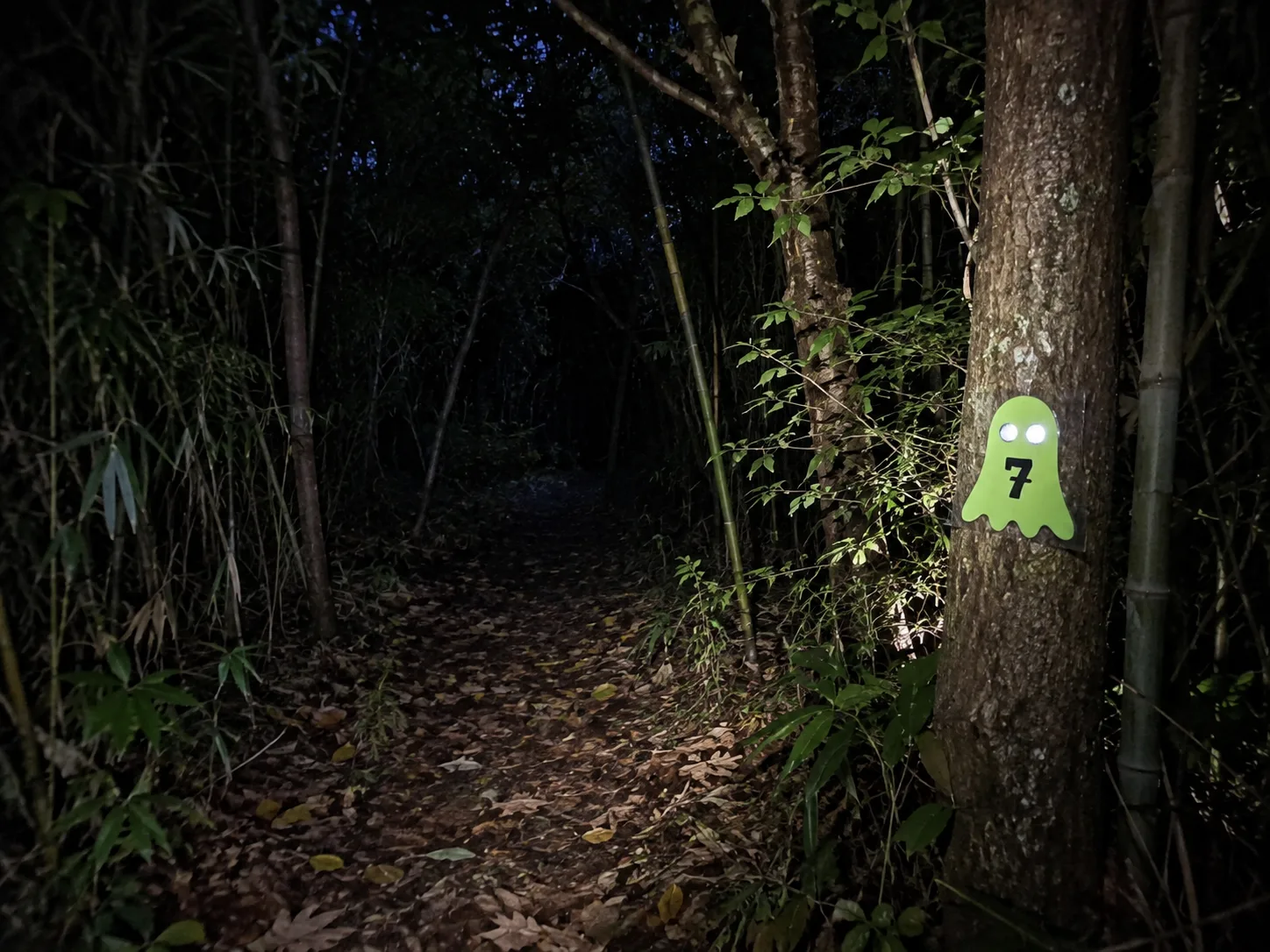
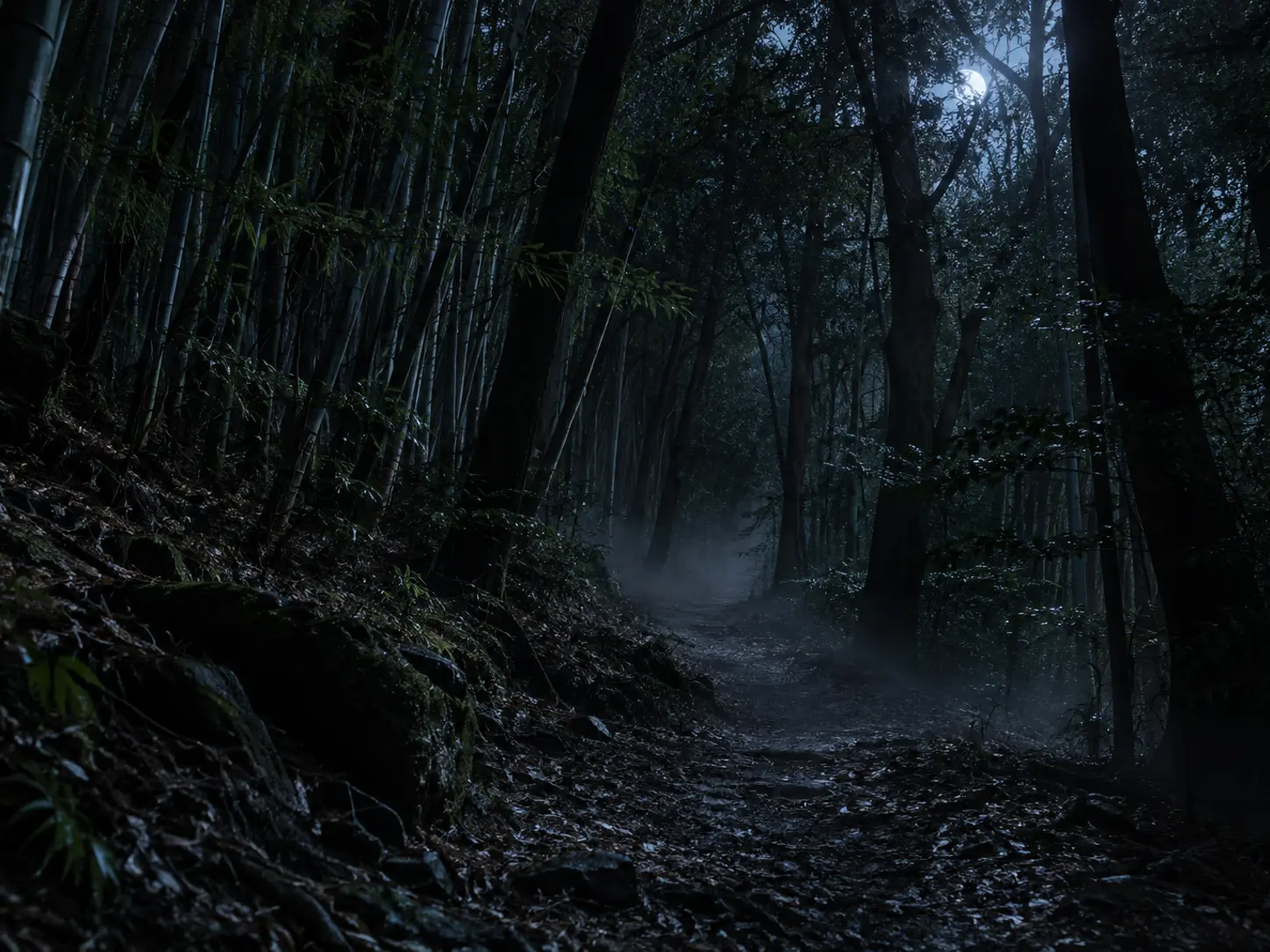
push

diff --git a/event.html b/event.html
@@ -5,6 +5,12 @@
   <meta name="viewport" content="width=device-width, initial-scale=1, viewport-fit=cover">
   <meta name="description" content="The Halloween Event 2026 in Tomisato, Chiba — Candy Forest, Story Time and the Zombie Scavenger Hunt. Reservation required.">
   <meta name="theme-color" content="#ff7a1a">
+  <meta property="og:title" content="ハロウィンイベント 2026 | The Halloween Event">
+  <meta property="og:description" content="10月31日（土）富里・キャンディの森、ストーリータイム、ゾンビ・スカベンジャーハント。要予約。">
+  <meta property="og:image" content="https://booha-adventure-studios.github.io/booha-world/assets/events/info/og-share.jpg">
+  <meta property="og:image:width" content="1200">
+  <meta property="og:image:height" content="630">
+  <meta name="twitter:card" content="summary_large_image">
   <title>The Halloween Event 2026 · ハロウィンイベント</title>
   <link rel="icon" type="image/webp" href="assets/img/booha_ghost.webp">
   <link rel="preconnect" href="https://fonts.googleapis.com">
@@ -31,10 +37,14 @@
 
     <section class="panel tab-panel is-active info-panel" id="panel-info" data-panel="info">
       <section class="info-hero info-sticker" aria-labelledby="info-title">
+        <picture class="info-hero-photo">
+          <source media="(max-width: 600px)" srcset="assets/events/info/hero-forest-mobile.webp">
+          <img src="assets/events/info/hero-forest-desktop.webp" width="2400" height="1000" fetchpriority="high" alt="夕方の大きな森の小道。竹と木々が奥へ続く自然な森">
+        </picture>
         <p class="info-date-pill"><span class="jp-main">10月31日（土）</span><span class="en-sub">Saturday, October 31, 2026</span></p>
         <h1 id="info-title"><span class="jp-main">ハロウィンイベント</span></h1>
         <p class="info-hero-en">THE HALLOWEEN EVENT 2026</p>
-        <p class="info-lede"><span class="jp-main">昼はキャンディの森とストーリータイム、夜はゾンビ・スカベンジャーハント！</span><span class="en-sub">Candy Forest and Story Time by day, the Zombie Scavenger Hunt at night!</span></p>
+        <p class="info-lede"><span class="jp-main"><span>昼はキャンディの森とストーリータイム、</span> <span>夜はゾンビ・スカベンジャーハント！</span></span><span class="en-sub"><span>Choose Candy Forest or Story Time by day,</span> <span>or join the Zombie Scavenger Hunt at night!</span></span></p>
         <p class="info-countdown-label"><span id="info-countdown-label-jp" class="jp-main">キャンディの森 スタートまで</span><span id="info-countdown-label-en" class="en-sub">Candy Forest opens in</span></p>
         <div class="countdown" id="info-countdown" aria-live="polite">—</div>
         <div class="info-actions">
@@ -46,32 +56,32 @@
       <section class="info-section info-reservation info-sticker" id="reservation" aria-labelledby="reservation-title">
         <p class="eyebrow"><span class="jp-main">まずは予約</span><span class="en-sub">Start here</span></p>
         <h2 id="reservation-title"><span class="jp-main">参加には予約が必要です</span><span class="en-sub">Reservation required</span></h2>
-        <p class="info-copy"><span class="jp-main">ブライアン英会話教室にメールでご予約ください。</span><span class="en-sub">Please reserve by emailing Bryan's English School.</span></p>
+        <p class="info-copy"><span class="jp-main">ブライアン英会話教室にメールでご予約ください。3つのイベントは、参加したいものだけ選べます。</span><span class="en-sub">Please reserve by emailing Bryan's English School. The three activities are independent—choose one, two, or all three.</span></p>
         <a id="reservation-link" class="primary-button info-button" href="mailto:bryans.english@gmail.com"><span class="jp-main">メールで予約する</span><span class="en-sub">Reserve by email</span></a>
         <p class="copyable-contact" id="reservation-email">bryans.english@gmail.com</p>
       </section>
 
       <section class="info-notices" aria-label="Must-know information">
-        <article class="info-notice notice-phone"><span class="notice-icon" aria-hidden="true">📱</span><h2><span class="jp-main">1グループに1台、電波の入るスマホが必要です</span><span class="en-sub">One phone with mobile data per family or team</span></h2><p><span class="jp-main">会場にWi-Fiはありません。キャンディの森とゾンビ・スカベンジャーハントで使います。充電してきてください。</span><span class="en-sub">There is no Wi-Fi. You'll need it for both hunts — come fully charged.</span></p></article>
-        <article class="info-notice notice-costume"><span class="notice-icon" aria-hidden="true">👻</span><h2><span class="jp-main">子ども（小学生〜高校生）は仮装必須</span><span class="en-sub">Costumes are required for children</span></h2><p><span class="jp-main">保護者の仮装は自由です。</span><span class="en-sub">Children from elementary to high school must wear costumes. Optional for parents.</span></p></article>
-        <article class="info-notice notice-toilet"><span class="notice-icon" aria-hidden="true">🚻</span><h2><span class="jp-main">森の中にトイレはありません</span><span class="en-sub">There are no toilets in the forest</span></h2><p><span class="jp-main">来場前におすませください。</span><span class="en-sub">Please go before you arrive.</span></p></article>
+        <article class="info-notice notice-phone"><span class="notice-tag"><span class="jp-main">スマホ</span><span class="en-sub">PHONE</span></span><h2><span class="jp-main">1グループに1台、電波の入るスマホが必要です</span><span class="en-sub">One phone with mobile data per family or team</span></h2><p><span class="jp-main">会場にWi-Fiはありません。キャンディの森とゾンビ・スカベンジャーハントで使います。充電してきてください。</span><span class="en-sub">There is no Wi-Fi. You'll need it for both hunts — come fully charged.</span></p></article>
+        <article class="info-notice notice-costume"><span class="notice-tag"><span class="jp-main">仮装</span><span class="en-sub">COSTUMES</span></span><h2><span class="jp-main">子ども（小学生〜高校生）は仮装必須</span><span class="en-sub">Costumes are required for children</span></h2><p><span class="jp-main">保護者の仮装は自由です。</span><span class="en-sub">Children from elementary to high school must wear costumes. Optional for parents.</span></p></article>
+        <article class="info-notice notice-toilet"><span class="notice-tag"><span class="jp-main">トイレ</span><span class="en-sub">TOILETS</span></span><h2><span class="jp-main">森の中にトイレはありません</span><span class="en-sub">There are no toilets in the forest</span></h2><p><span class="jp-main">来場前におすませください。</span><span class="en-sub">Please go before you arrive.</span></p></article>
       </section>
 
       <section class="info-section info-events" aria-labelledby="events-title">
-        <div class="info-section-heading"><p class="eyebrow"><span class="jp-main">1日の予定</span><span class="en-sub">The day at a glance</span></p><h2 id="events-title"><span class="jp-main">昼から夜まで楽しもう</span><span class="en-sub">Three parts of the Halloween Event</span></h2></div>
+        <div class="info-section-heading"><p class="eyebrow"><span class="jp-main">1日の予定</span><span class="en-sub">The day at a glance</span></p><h2 id="events-title"><span class="jp-main">昼から夜まで楽しもう</span><span class="en-sub">Three parts of the Halloween Event</span></h2><p class="info-copy event-choice-note"><span class="jp-main">3つのイベントは別々に参加できます。好きなものを選んでください。</span><span class="en-sub">Each activity is separate — choose one, two, or all three.</span></p></div>
         <div class="event-cards">
-          <article class="event-card event-card-candy"><time>10:00〜16:00ごろ</time><h3><span class="jp-main">キャンディの森</span><span class="en-sub">Candy Forest</span></h3><p><span class="jp-main">森にかくれた10ひきのブーハーゴーストをさがそう。11:00までにスタート。</span><span class="en-sub">Find ten hidden Booha Ghosts in the forest. Start by 11:00.</span></p><strong id="info-candy-card-price">キャンディバッグ ¥1,000</strong><button class="info-card-button" type="button" data-go-tab="candy"><span class="jp-main">詳しく見る</span><span class="en-sub">View details</span></button></article>
-          <article class="event-card event-card-story"><time>お昼ごろ<span class="en-sub">Around lunchtime</span></time><h3><span class="jp-main">ストーリータイム</span><span class="en-sub">Story Time</span></h3><p><span class="jp-main">お昼ごはんのあとにお話の時間。</span><span class="en-sub">A story session around lunchtime.</span></p></article>
-          <article class="event-card event-card-zombie"><time>18:00</time><h3><span class="jp-main">ゾンビ・スカベンジャーハント</span><span class="en-sub">Zombie Scavenger Hunt</span></h3><p><span class="jp-main">暗い森でゴーストをさがせ。サイレンが鳴ったらかくれろ！</span><span class="en-sub">Find the ghosts in the dark forest. When the siren sounds — hide!</span></p><strong id="info-zombie-card-price">グッズバッグ ¥1,000</strong><button class="info-card-button" type="button" data-go-tab="zombie"><span class="jp-main">詳しく見る</span><span class="en-sub">View details</span></button></article>
+          <article class="event-card event-card-candy"><img class="event-card-photo" src="assets/events/info/card-candy-forest.webp" width="1200" height="800" loading="lazy" alt="昼の森の小道。木の陰に小さなゴーストがかくれている森"><time>10:00〜16:00<small>ごろ</small></time><h3><span class="jp-main">キャンディの森</span><span class="en-sub">Candy Forest</span></h3><p><span class="jp-main">森にかくれた10ひきのブーハーゴーストをさがそう。11:00までにスタート。</span><span class="en-sub">Find ten hidden Booha Ghosts in the forest. Start by 11:00.</span></p><strong id="info-candy-card-price">キャンディバッグ ¥1,000</strong><button class="info-card-button" type="button" data-go-tab="candy"><span class="jp-main">詳しく見る</span><span class="en-sub">View details</span></button></article>
+          <article class="event-card event-card-story"><img class="event-card-photo" src="assets/events/info/card-story-time.webp" width="1200" height="800" loading="lazy" alt="森の小道。小さなハロウィンキャラクターがいる森"><time>お昼ごろ<span class="en-sub">Around lunchtime</span></time><h3><span class="jp-main">ストーリータイム</span><span class="en-sub">Story Time</span></h3><p><span class="jp-main">お昼ごはんのあとにお話の時間。</span><span class="en-sub">A story session around lunchtime.</span></p></article>
+          <article class="event-card event-card-zombie"><img class="event-card-photo" src="assets/events/info/card-zombie-hunt.webp" width="1200" height="800" loading="lazy" alt="霧の夜の森の小道。うす紫のライトの光"><time>18:00</time><h3><span class="jp-main">ゾンビ・スカベンジャーハント</span><span class="en-sub">Zombie Scavenger Hunt</span></h3><p><span class="jp-main">暗い森でゴーストをさがせ。サイレンが鳴ったらかくれろ！</span><span class="en-sub">Find the ghosts in the dark forest. When the siren sounds — hide!</span></p><strong id="info-zombie-card-price">グッズバッグ ¥1,000</strong><button class="info-card-button" type="button" data-go-tab="zombie"><span class="jp-main">詳しく見る</span><span class="en-sub">View details</span></button></article>
         </div>
       </section>
 
       <section class="info-section info-prices info-sticker" aria-labelledby="prices-title">
         <p class="eyebrow"><span class="jp-main">料金</span><span class="en-sub">Prices</span></p>
-        <h2 id="prices-title"><span class="jp-main">キャンディバッグ・グッズバッグ</span><span class="en-sub">Candy bags &amp; goodie bags</span></h2>
+        <h2 id="prices-title"><span class="jp-main">バッグ料金</span><span class="en-sub">Bag prices</span></h2>
         <div class="price-tiles">
-          <article class="price-tile price-candy"><span class="jp-main">キャンディの森 キャンディバッグ</span><span class="en-sub">Candy Forest candy bag</span><strong id="info-candy-price">¥1,000</strong></article>
-          <article class="price-tile price-zombie"><span class="jp-main">ゾンビ・スカベンジャーハント グッズバッグ</span><span class="en-sub">Zombie Scavenger Hunt goodie bag</span><strong id="info-zombie-price">¥1,000</strong></article>
+          <article class="price-tile price-candy"><span class="jp-main"><span>キャンディの森</span><span>キャンディバッグ</span></span><span class="en-sub">Candy Forest candy bag</span><strong id="info-candy-price">¥1,000</strong></article>
+          <article class="price-tile price-zombie"><span class="jp-main"><span>ゾンビ・スカベンジャーハント</span><span>グッズバッグ</span></span><span class="en-sub">Zombie Scavenger Hunt goodie bag</span><strong id="info-zombie-price">¥1,000</strong></article>
         </div>
         <p class="price-note"><span class="jp-main">お子さま1人あたりの料金です。両方に参加する場合は<span id="info-both-price">¥2,000</span>です。</span><span class="en-sub">Prices are per child. Joining both events is <span id="info-both-price-en">¥2,000</span>.</span></p>
         <p class="price-note"><span class="jp-main">保護者の方はバッグの購入は不要です。</span><span class="en-sub">Parents do not need to buy a bag.</span></p>
@@ -84,13 +94,13 @@
           <div class="timeline-stop"><time>10:00</time><p><span class="jp-main">キャンディの森スタート</span><span class="en-sub">Candy Forest starts</span></p></div>
           <div class="timeline-stop"><time>11:00</time><p><span class="jp-main">新しいスタートの締め切り</span><span class="en-sub">Last start</span></p></div>
           <div class="timeline-stop"><time>お昼ごろ</time><p><span class="jp-main">ストーリータイム</span><span class="en-sub">Story Time</span></p></div>
-          <div class="timeline-stop"><time>16:00ごろ</time><p><span class="jp-main">森の時間おわり</span><span class="en-sub">Daytime forest ends</span></p></div>
+          <div class="timeline-stop"><time>16:00<small>ごろ</small></time><p><span class="jp-main">森の時間おわり</span><span class="en-sub">Daytime forest ends</span></p></div>
           <div class="timeline-stop timeline-zombie"><time>18:00</time><p><span class="jp-main">ゾンビ・スカベンジャーハント</span><span class="en-sub">Zombie Scavenger Hunt</span></p></div>
         </div>
       </section>
 
       <section class="info-section info-checklist info-sticker" aria-labelledby="checklist-title">
-        <p class="eyebrow"><span class="jp-main">準備</span><span class="en-sub">Before you come</span></p><h2 id="checklist-title"><span class="jp-main">来る前にチェック</span><span class="en-sub">Before you come</span></h2>
+        <p class="eyebrow"><span class="jp-main">準備</span></p><h2 id="checklist-title"><span class="jp-main">来る前にチェック</span><span class="en-sub">Before you come</span></h2>
         <ul class="checklist">
           <li><span>✓</span><span><span class="jp-main">予約メールを送った</span><span class="en-sub">Reservation email sent</span></span></li>
           <li><span>✓</span><span><span class="jp-main">電波の入るスマホ（充電済み）</span><span class="en-sub">Phone with mobile data, fully charged</span></span></li>
@@ -103,18 +113,24 @@
         </ul>
       </section>
 
+      <section class="info-closing-banner info-sticker" aria-label="夕暮れの森">
+        <picture>
+          <source media="(max-width: 600px)" srcset="assets/events/info/banner-forest-dusk-mobile.webp">
+          <img src="assets/events/info/banner-forest-dusk-desktop.webp" width="2400" height="800" loading="lazy" alt="夕暮れの大きな森。自然な小道が木々の間へ続く">
+        </picture>
+      </section>
+
       <section class="info-section info-getting" id="getting-there" aria-labelledby="getting-title">
-        <div class="info-section-heading"><p class="eyebrow"><span class="jp-main">会場への行き方</span><span class="en-sub">How to get there</span></p><h2 id="getting-title"><span class="jp-main">駐車場から森の入口まで</span><span class="en-sub">From parking to the forest entrance</span></h2></div>
-        <div class="info-address-card info-sticker"><strong id="parking-address-jp"></strong><span id="parking-address-en" class="en-sub"></span><p><span class="jp-main">駐車場から森の入口まで徒歩約3分</span><span class="en-sub">About a three-minute walk from parking to the forest entrance.</span></p><a id="parking-map-link" class="primary-button info-button" href="#parking-map" target="_blank" rel="noopener"><span class="jp-main">Googleマップで見る</span><span class="en-sub">Open Google Maps</span></a></div>
+        <div class="info-section-heading"><p class="eyebrow"><span class="jp-main">会場への行き方</span></p><h2 id="getting-title"><span class="jp-main">駐車場から森の入口まで</span><span class="en-sub">From parking to the forest entrance</span></h2></div>
+        <div class="info-address-card info-sticker"><strong id="parking-company-jp"></strong><strong id="parking-street-jp"></strong><span id="parking-address-en" class="en-sub"></span><p><span class="jp-main">駐車場から森の入口まで徒歩約3分</span><span class="en-sub">About a three-minute walk from parking to the forest entrance.</span></p><a id="parking-map-link" class="primary-button info-button" href="https://www.google.com/maps/search/?api=1&amp;query=%E6%A0%AA%E5%BC%8F%E4%BC%9A%E7%A4%BE%E3%82%BF%E3%82%A4%E3%82%BB%E3%82%A4%E3%83%97%E3%83%AD%E3%83%80%E3%82%AF%E3%83%84%20%E5%8D%83%E8%91%89%E7%9C%8C%E5%AF%8C%E9%87%8C%E5%B8%82%E4%B8%83%E6%A0%84250" target="_blank" rel="noopener"><span class="jp-main">Googleマップで見る</span><span class="en-sub">Open Google Maps</span></a></div>
         <p class="parking-limit-note" id="parking-note"></p>
         <figure class="parking-map parking-route-map info-map-card"><img src="assets/events/location/parking-map.webp" alt="Japanese walking map from the parking area to Candy Forest"><figcaption><span class="jp-main">駐車場から森の入口までの道順</span><span class="en-sub">Walking route from parking to the forest entrance</span></figcaption></figure>
         <figure class="parking-map parking-aerial info-map-card" id="parking-map"><div class="parking-aerial-frame"><img src="assets/events/location/parking-aerial-marked.webp" alt="航空写真に前側駐車場と奥側駐車場、進入方向を示した案内図"></div><figcaption><span class="jp-main">航空写真：前側と奥側の駐車場</span><span class="en-sub">Aerial view: front lot and rear lot</span></figcaption></figure>
-        <figure class="parking-photo info-front-photo"><img src="assets/events/location/parking-front-photo.webp" alt="The front gravel parking area and blue-roofed building at the event location"><figcaption><span class="jp-main">会場前の駐車場です。奥側の駐車場もご利用ください。</span><span class="en-sub">This is the front lot. Please also use the rear lot.</span></figcaption></figure>
       </section>
 
       <section class="info-section info-contact info-sticker" aria-labelledby="contact-title">
         <p class="eyebrow"><span class="jp-main">お問い合わせ</span><span class="en-sub">Contact</span></p><h2 id="contact-title"><span class="jp-main">質問がありますか？</span><span class="en-sub">Questions?</span></h2><p><span class="jp-main">ブライアン英会話教室</span><span class="en-sub">Bryan's English School</span></p>
-        <div class="contact-actions"><a id="info-phone-link" class="secondary-button info-button" href="tel:0476769896">📞 電話する 0476-76-9896</a><a id="info-email-link" class="primary-button info-button" href="mailto:bryans.english@gmail.com">✉ メールする</a></div>
+        <div class="contact-actions"><a id="info-phone-link" class="secondary-button info-button" href="tel:0476769896"><span class="jp-main">電話する</span><span class="en-sub">Call 0476-76-9896</span></a><a id="info-email-link" class="primary-button info-button" href="mailto:bryans.english@gmail.com"><span class="jp-main">メールする</span><span class="en-sub">Email us</span></a></div>
       </section>
     </section>
 
@@ -135,7 +151,7 @@
       </div>
 
       <div class="hunt-shell">
-        <div class="hunt-art"><img src="assets/events/atmosphere/candy-forest-single-ghost.webp" alt="A small pink Booha Ghost attached to a tree beside a forest path"></div>
+        <div class="hunt-art"><img src="assets/events/atmosphere/candy-forest-single-ghost.webp" alt="A real forest path with a tiny hidden Booha Ghost partly behind a tree"></div>
         <div class="hunt-content">
           <div id="hunt-start" class="hunt-view">
             <p class="eyebrow"><span class="jp-main">かぞくのハント</span><span class="en-sub">Your family hunt</span></p>
@@ -187,7 +203,7 @@
           <p class="hero-lede"><span class="jp-main">ライムグリーンのゴースト15ひき。暗い森。サイレン。ゾンビ。QRコードはありません。</span><span class="en-sub">Fifteen lime-green ghosts. A dark forest. A siren. Zombies. No QR codes.</span></p>
           <p class="tba-pill"><span class="jp-main">夜の時間は未定</span><span class="en-sub">Nighttime schedule · TBA</span></p>
         </div>
-        <figure class="hero-image"><img src="assets/events/atmosphere/zombie-hunt-single-ghost.webp" alt="A small lime-green numbered Booha Ghost with reflective eyes on a tree at night"><figcaption>Example Ghost 7 — one of fifteen.</figcaption></figure>
+        <figure class="hero-image"><img src="assets/events/atmosphere/zombie-hunt-single-ghost.webp" alt="A dark, misty forest path at night"><figcaption>A real forest path after dark.</figcaption></figure>
       </div>
 
       <div class="night-rules">

diff --git a/event.css b/event.css
@@ -14,7 +14,7 @@
   --shadow: 0 24px 70px rgba(0, 0, 0, .32);
 }
 
-body[data-theme="candy"], body[data-theme="info"] {
+body[data-theme="candy"] {
   --bg: #250b3b;
   --surface: #351047;
   --surface-2: #55104f;
@@ -437,7 +437,6 @@ body[data-theme="info"] .info-hero { padding: 64px 32px; background: var(--pumpk
 body[data-theme="info"] .info-date-pill { display: inline-flex; flex-wrap: wrap; justify-content: center; gap: 4px 12px; margin: 0 auto 24px; padding: 9px 16px; border: 3px solid var(--ink); border-radius: 999px; background: #fff; font-weight: 700; }
 body[data-theme="info"] .info-date-pill .en-sub { display: inline; margin: 0; color: var(--ink); font-size: 14px; }
 body[data-theme="info"] .info-hero h1 { margin: 0; }
-body[data-theme="info"] .info-hero h1 > .jp-main { display: block; overflow: visible; color: var(--ink); font-family: 'Dela Gothic One', 'Noto Sans JP', sans-serif; font-size: min(calc((100vw - 32px) / 9.4), 120px); font-weight: 400; letter-spacing: 0; line-height: 1.1; white-space: nowrap; }
 body[data-theme="info"] .info-hero-en { margin: 10px 0 18px; font: 700 clamp(14px, 3.6vw, 22px)/1.2 'DM Sans', sans-serif; letter-spacing: .2em; }
 body[data-theme="info"] .info-lede { max-width: 760px; margin: 0 auto 28px; font-family: 'M PLUS Rounded 1c', 'Noto Sans JP', sans-serif; font-size: 18px; font-weight: 500; line-height: 1.7; }
 body[data-theme="info"] .info-lede .en-sub { color: var(--ink); }
@@ -531,6 +530,23 @@ body[data-theme="info"] .info-contact .contact-actions { gap: 16px; }
 body[data-theme="info"] .site-footer { border-top-color: var(--ink); color: var(--muted); }
 body[data-theme="info"] .site-footer a { color: var(--ink); }
 
+@media (max-width: 680px) {
+  .tabs { display: grid; grid-template-columns: 1fr; gap: 9px; overflow: visible; }
+  .tab { width: 100%; text-align: left; }
+  .tab-label-full, .tab .en-sub { display: block !important; }
+  .tab-label-short { display: none !important; }
+}
+
+/* Keep the Candy Forest atmosphere photographic; do not float a flat ghost cutout over it. */
+body[data-theme="candy"] .atmosphere::before,
+body[data-theme="candy"] .atmosphere::after { display: none; }
+
+/* Give large display text a little extra glyph room so Japanese ascenders and descenders never clip. */
+body[data-theme="info"] .info-hero h1 > .jp-main { line-height: 1.2; padding-block: .04em; }
+body[data-theme="info"] .info-hero-en { line-height: 1.35; }
+body[data-theme="info"] .info-hero .cd-unit b,
+body[data-theme="info"] .price-tile strong { line-height: 1.15; }
+
 @media (max-width: 800px) {
   body[data-theme="info"] .info-notices, body[data-theme="info"] .event-cards { grid-template-columns: 1fr; }
   body[data-theme="info"] .event-card { min-height: 0; }
@@ -546,7 +562,6 @@ body[data-theme="info"] .site-footer a { color: var(--ink); }
   .tab-label-short { display: block; }
   body[data-theme="info"] .info-panel > * { margin-bottom: 40px; }
   body[data-theme="info"] .info-hero { padding: 40px 16px; }
-  body[data-theme="info"] .info-hero h1 > .jp-main { font-size: min(calc((100vw - 32px) / 9.4), 120px); }
   body[data-theme="info"] .info-lede { font-size: 16px; }
   body[data-theme="info"] .info-actions, body[data-theme="info"] .contact-actions { flex-direction: column; align-items: center; }
   body[data-theme="info"] .info-button { width: 100%; max-width: 360px; }
@@ -557,3 +572,166 @@ body[data-theme="info"] .site-footer a { color: var(--ink); }
 }
 
 body[data-theme="zombie"] h1 > .jp-main { font-weight: 400; letter-spacing: 0; }
+
+/* ==========================================================
+   EVENT INFORMATION — Part 2
+   Nature + Halloween palette; scoped so the hunt tabs stay intact.
+   ========================================================== */
+body[data-theme="info"] {
+  --ink: #2B1E16;
+  --paper: #F3EADB;
+  --card: #FFFAF1;
+  --text: #2B1E16;
+  --muted: #6B5A4C;
+  --pumpkin: #E07A2A;
+  --harvest: #E2B23A;
+  --pine: #2E5339;
+  --moss: #8FA35A;
+  --plum: #4E2A47;
+  --ember: #A8331C;
+  --night: #12160F;
+  --glow: #B7E04A;
+  --line: #2B1E16;
+  background: var(--paper);
+  color: var(--text);
+  overflow-x: clip;
+}
+body[data-theme="info"] .jp-main { word-break: auto-phrase; line-break: strict; }
+body[data-theme="info"] h1,
+body[data-theme="info"] h2,
+body[data-theme="info"] h3 { text-wrap: balance; }
+body[data-theme="info"] p { text-wrap: pretty; }
+body[data-theme="info"] .site-header { color: var(--ink); }
+body[data-theme="info"] .brand { color: var(--ink); }
+body[data-theme="info"] .brand small { color: var(--muted); font-size: 13px; }
+body[data-theme="info"] .tab { background: var(--card); color: var(--ink); border-color: var(--ink); }
+body[data-theme="info"] .tab .en-sub { color: var(--muted); font-size: 13px; }
+body[data-theme="info"] .tab[data-tab="info"].is-active { background: var(--pumpkin); color: var(--ink); }
+body[data-theme="info"] .tab[data-tab="candy"].is-active { background: var(--pine); color: var(--paper); }
+body[data-theme="info"] .tab[data-tab="zombie"].is-active { background: var(--night); color: var(--glow); }
+body[data-theme="info"] .tab.is-active .en-sub { color: inherit; }
+
+body[data-theme="info"] .info-hero {
+  container-type: inline-size;
+  overflow: hidden;
+  padding: 64px 32px;
+  background: var(--pumpkin);
+  color: var(--ink);
+}
+body[data-theme="info"] .info-hero-photo {
+  display: block;
+  width: calc(100% + 64px);
+  margin: -64px -32px 32px;
+  aspect-ratio: 12 / 5;
+  border-bottom: 3px solid var(--ink);
+}
+body[data-theme="info"] .info-hero-photo img { display: block; width: 100%; height: 100%; object-fit: cover; object-position: center 60%; border-radius: 13px 13px 0 0; }
+body[data-theme="info"] .info-hero h1 > .jp-main {
+  display: block;
+  overflow: visible;
+  color: var(--ink);
+  font-family: 'Dela Gothic One', 'Noto Sans JP', sans-serif;
+  font-size: min(calc(100cqi / 9.3), 120px);
+  font-weight: 400;
+  letter-spacing: 0;
+  line-height: 1.1;
+  white-space: nowrap;
+}
+body[data-theme="info"] .info-hero-en { color: var(--ink); font-size: clamp(15px, 3.6vw, 22px); }
+body[data-theme="info"] .info-lede { font-size: 18px; }
+body[data-theme="info"] .info-lede .jp-main > span,
+body[data-theme="info"] .info-lede .en-sub > span { display: inline-block; }
+body[data-theme="info"] .info-lede .en-sub { color: var(--ink); font-size: 15px; }
+body[data-theme="info"] .info-date-pill { background: var(--card); color: var(--ink); }
+body[data-theme="info"] .info-countdown-label { color: var(--ink); }
+body[data-theme="info"] .info-countdown-label .en-sub { color: var(--ink); font-size: 14px; }
+body[data-theme="info"] .info-hero .countdown { color: var(--ink); }
+body[data-theme="info"] .info-hero .cd-unit { background: var(--card); border-color: var(--ink); }
+body[data-theme="info"] .info-hero .cd-unit b,
+body[data-theme="info"] .info-hero .cd-unit small { color: var(--ink); }
+body[data-theme="info"] .info-hero .cd-unit small { font-size: 13px; }
+
+body[data-theme="info"] .info-button { flex-direction: column; gap: 2px; padding: 10px 18px; min-height: 54px; }
+body[data-theme="info"] .info-button .en-sub { color: inherit; font-size: 13px; }
+body[data-theme="info"] .primary-button { background: var(--harvest); color: var(--ink); }
+body[data-theme="info"] .secondary-button { background: var(--card); color: var(--ink); }
+body[data-theme="info"] .info-reservation { background: var(--card); border-color: var(--pumpkin); }
+body[data-theme="info"] .info-reservation .primary-button,
+body[data-theme="info"] .info-contact .primary-button { background: var(--harvest); color: var(--ink); }
+body[data-theme="info"] .info-section h2 { color: var(--ink); }
+body[data-theme="info"] .info-section h2 .en-sub { color: var(--muted); }
+body[data-theme="info"] .info-copy,
+body[data-theme="info"] .info-section > p { font-size: 16px; }
+body[data-theme="info"] .info-copy .en-sub,
+body[data-theme="info"] .info-section > p .en-sub { color: var(--muted); font-size: 14px; }
+
+body[data-theme="info"] .notice-phone { background: var(--harvest); color: var(--ink); }
+body[data-theme="info"] .notice-costume { background: var(--moss); color: var(--ink); }
+body[data-theme="info"] .notice-toilet { background: var(--ember); color: var(--paper); }
+body[data-theme="info"] .info-notice h2 { color: inherit; }
+body[data-theme="info"] .info-notice h2 .en-sub,
+body[data-theme="info"] .info-notice p .en-sub { color: inherit; }
+body[data-theme="info"] .notice-tag { display: inline-flex; gap: 6px; align-items: center; margin-bottom: 14px; padding: 4px 12px; border: 2px solid currentColor; border-radius: 999px; font-size: 13px; font-weight: 700; line-height: 1.2; }
+body[data-theme="info"] .notice-tag .en-sub { display: inline; font-size: 13px; }
+body[data-theme="info"] .notice-icon { display: none; }
+body[data-theme="info"] .info-notice p { font-size: 16px; }
+body[data-theme="info"] .info-notice p .en-sub { font-size: 14px; }
+
+body[data-theme="info"] .event-card { overflow: hidden; padding: 0 20px 24px; }
+body[data-theme="info"] .event-card-photo { display: block; width: calc(100% + 40px); height: auto; aspect-ratio: 3 / 2; margin: 0 -20px 20px; object-fit: cover; border-bottom: 3px solid var(--ink); border-radius: 13px 13px 0 0; }
+body[data-theme="info"] .event-card-candy { background: var(--pine); color: var(--paper); }
+body[data-theme="info"] .event-card-story { background: var(--plum); color: var(--paper); }
+body[data-theme="info"] .event-card-zombie { background: var(--night); color: var(--glow); }
+body[data-theme="info"] .event-card h3 { font-size: clamp(20px, 2.2vw, 24px); }
+body[data-theme="info"] .event-card time { white-space: nowrap; }
+body[data-theme="info"] .event-card time small { display: inline; margin-left: 4px; font-size: 60%; }
+body[data-theme="info"] .event-card h3 .en-sub { color: inherit; }
+body[data-theme="info"] .event-card p { font-size: 16px; }
+body[data-theme="info"] .event-card p .en-sub { font-size: 14px; }
+body[data-theme="info"] .event-choice-note { max-width: 760px; margin: 16px auto 0; padding: 12px 16px; border-left: 5px solid var(--pumpkin); background: var(--card); color: var(--ink); }
+body[data-theme="info"] .event-choice-note .en-sub { color: var(--muted); font-size: 14px; }
+body[data-theme="info"] .price-tile .jp-main > span { display: block; }
+body[data-theme="info"] .price-tile strong { font-size: clamp(32px, 6vw, 44px); }
+body[data-theme="info"] .price-candy { background: var(--pine); color: var(--paper); }
+body[data-theme="info"] .price-zombie { background: var(--night); color: var(--glow); }
+body[data-theme="info"] .price-tile .en-sub { color: inherit; }
+body[data-theme="info"] .timeline-stop { color: var(--ink); }
+body[data-theme="info"] .timeline-stop time { white-space: nowrap; }
+body[data-theme="info"] .timeline-stop time small { display: inline; margin-left: 3px; font-size: 60%; }
+body[data-theme="info"] .timeline-stop p .en-sub { color: var(--muted); }
+body[data-theme="info"] .timeline-zombie { background: var(--night); color: var(--glow); }
+body[data-theme="info"] .timeline-zombie p .en-sub { color: var(--glow); }
+body[data-theme="info"] .checklist li > span:first-child { color: var(--pine); }
+body[data-theme="info"] .info-checklist { background: var(--card); }
+
+body[data-theme="info"] .info-closing-banner { overflow: hidden; padding: 0; aspect-ratio: 3 / 1; }
+body[data-theme="info"] .info-closing-banner picture,
+body[data-theme="info"] .info-closing-banner img { display: block; width: 100%; height: 100%; }
+body[data-theme="info"] .info-closing-banner img { object-fit: cover; }
+body[data-theme="info"] .info-address-card { background: var(--card); }
+body[data-theme="info"] .info-address-card strong { display: block; }
+body[data-theme="info"] .info-address-card > .en-sub { color: var(--muted); font-size: 14px; }
+body[data-theme="info"] .info-map-card { background: var(--card); }
+body[data-theme="info"] .info-map-card figcaption { color: var(--muted); font-size: 14px; }
+body[data-theme="info"] .info-contact { background: var(--card); }
+body[data-theme="info"] .info-contact .contact-actions { gap: 16px; }
+body[data-theme="info"] .site-footer a { color: var(--ink); text-decoration: underline; }
+
+@media (max-width: 800px) {
+  body[data-theme="info"] .timeline-stop { grid-template-columns: 128px 1fr; align-items: center; }
+}
+@media (max-width: 560px) {
+  body[data-theme="info"] .info-hero { padding: 40px 16px; }
+  body[data-theme="info"] .info-hero-photo { width: calc(100% + 32px); margin: -40px -16px 24px; aspect-ratio: 4 / 3; }
+  body[data-theme="info"] .info-hero-photo img { border-radius: 13px 13px 0 0; }
+  body[data-theme="info"] .info-lede { font-size: 16px; }
+  body[data-theme="info"] .info-closing-banner { aspect-ratio: 3 / 2; }
+  body[data-theme="info"] .timeline-stop { grid-template-columns: 128px 1fr; }
+}
+
+@media (max-width: 680px) {
+  .tabs { display: grid; grid-template-columns: 1fr; gap: 9px; overflow: visible; }
+  .tab { width: 100%; text-align: left; }
+  .tab-label-full, .tab .en-sub { display: block !important; }
+  .tab-label-short { display: none !important; }
+}

diff --git a/event.js b/event.js
@@ -330,7 +330,7 @@
     "電話番号 / Phone:",
     "お子さまの人数と学年 / Number of children and grades:",
     "保護者の人数 / Number of adults:",
-    "参加するイベント / Events (キャンディの森 / ゾンビ / 両方):"
+    "参加するイベント / Choose any (キャンディの森 / ストーリータイム / ゾンビ / いくつでも):"
   ].join("\n");
   const reservationHref = `mailto:${reservationEmail}?subject=${encodeURIComponent("ハロウィンイベント予約 / Halloween Event reservation")}&body=${encodeURIComponent(reservationBody)}`;
 
@@ -344,7 +344,8 @@
   $("#info-zombie-card-price").textContent = `グッズバッグ ${formatYen(prices.zombie)}`;
   $("#info-both-price").textContent = formatYen(bothPrice);
   $("#info-both-price-en").textContent = formatYen(bothPrice);
-  $("#parking-address-jp").textContent = config.parking.addressJP;
+  $("#parking-company-jp").textContent = config.parking.companyJP || config.parking.addressJP || "";
+  $("#parking-street-jp").textContent = config.parking.streetJP || "";
   $("#parking-address-en").textContent = config.parking.addressEN;
   setBilingual("#parking-note", config.parking.noteJP, config.parking.noteEN);
   $("#parking-map-link").href = config.parking.mapUrl;

diff --git a/events/events.js b/events/events.js
@@ -22,7 +22,8 @@ window.BOOHA_EVENTS = {
     parking: {
       titleJP: "会場への行き方と駐車場",
       titleEN: "How to get there and parking",
-      addressJP: "株式会社タイセイプロダクツ　千葉県富里市七栄250",
+      companyJP: "株式会社タイセイプロダクツ",
+      streetJP: "千葉県富里市七栄250",
       addressEN: "Tai Sei Products · 250 Nanae, Tomisato, Chiba",
       walkJP: "駐車場から会場まで、歩いて約3分です。",
       walkEN: "The forest entrance is about a three-minute walk from the parking area.",
